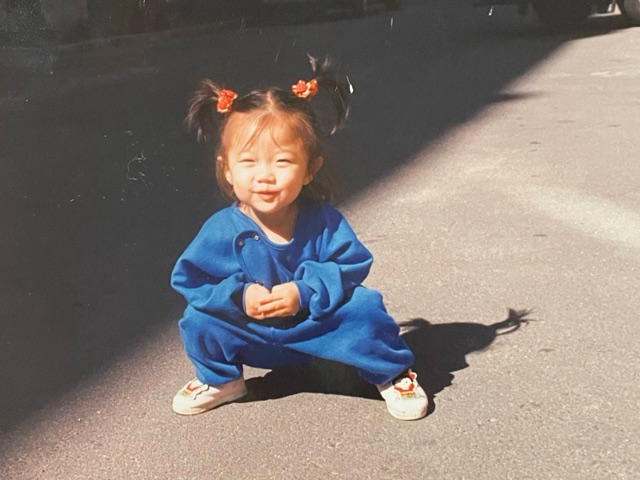
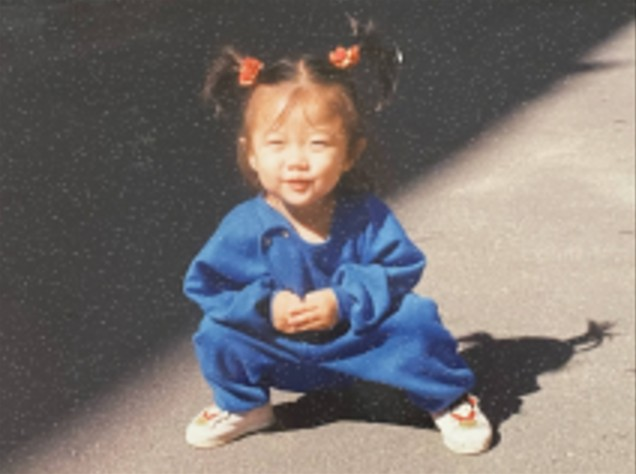
Fix About Me photo crop to match Figma exactly
Previous crop used percentage offsets computed against the wrong
source-image dimensions, so the framing was zoomed out and off-center
compared to Figma. Re-sourced the crop directly from Figma's own
rendered output (trimmed the baked-in border, upscaled 3x) instead of
re-deriving crop math against a differently-processed source photo.

diff --git a/desktop.html b/desktop.html
@@ -150,10 +150,7 @@ body {
   width:213.333px; height:160px; flex-shrink:0; position:relative;
   border:1px solid #000; overflow:hidden;
 }
-.about-photo img {
-  position:absolute; left:-10.11%; top:-2.78%; width:119.76%; height:119.76%;
-  max-width:none;
-}
+.about-photo img { width:100%; height:100%; object-fit:cover; display:block; }
 .about-con {
   width:100%; display:flex; flex-direction:column; align-items:center; gap:24px;
   padding:0 20px;
